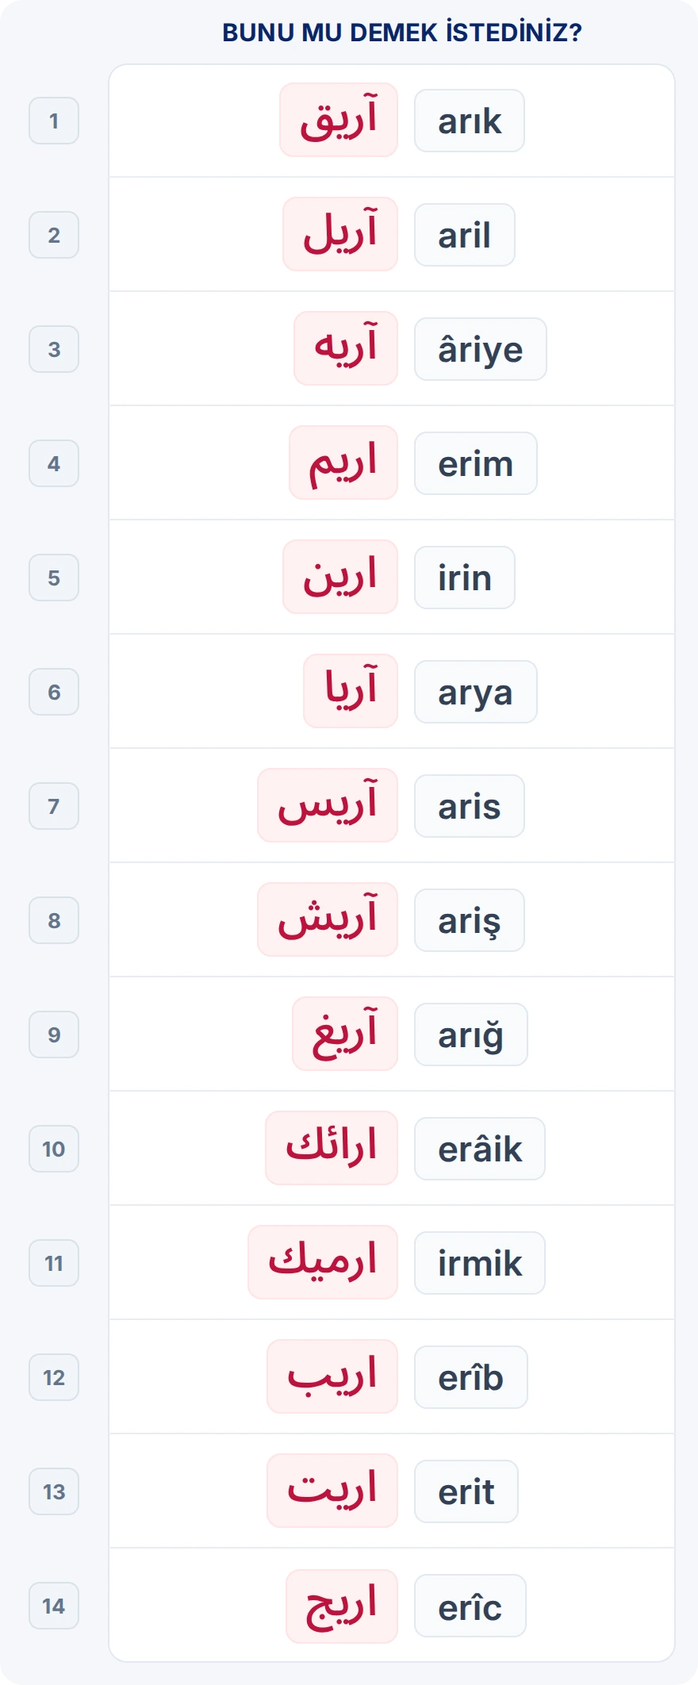
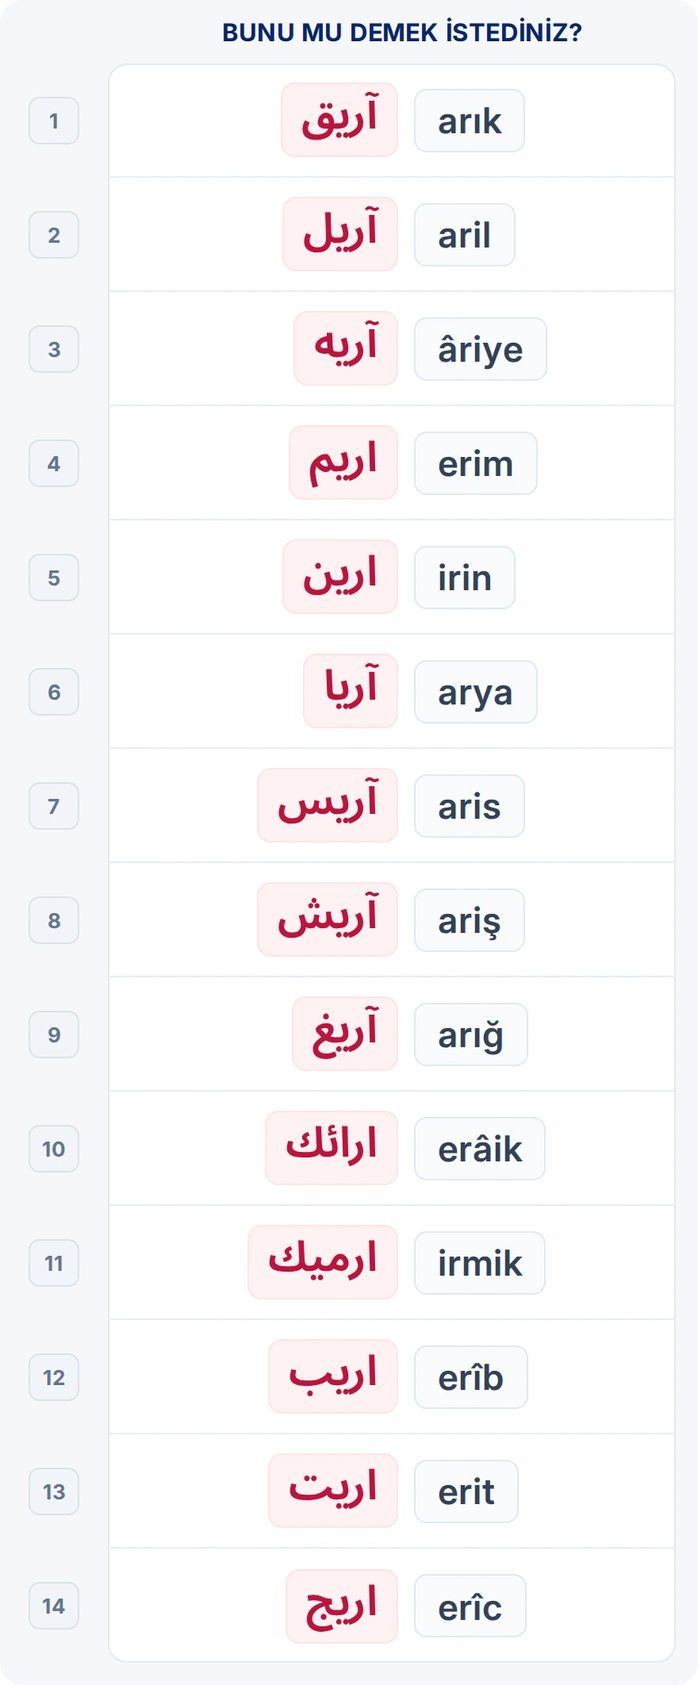
Kilavuz B6: Bunu mu demek istediniz listesinde Arapca yazi tipi sitedekiyle eslestirildi

diff --git a/pages/kullanim-kilavuzu-tr.html b/pages/kullanim-kilavuzu-tr.html
@@ -101,7 +101,7 @@ h2{margin:3.1rem 0 1.05rem;padding-top:.25rem}
   <div class="layout">
       <nav class="toc" aria-label="Bu sayfada"><p class="toc-title">Bu sayfada</p><a href="#ana-sayfa">Ana Sayfa</a><a href="#sonuclar">Arama Sonuçları</a><a href="#sozluk-sayfasi">Sözlük Sayfası</a><a href="#cozucu">Kelime Çözücü</a><a href="#cozucu-sonuc">Kelime Çözücü Sonuçları</a></nav>
       <main class="guide-steps">
-    <section aria-labelledby="ana-sayfa"><h2 id="ana-sayfa">Ana Sayfa</h2><p class="section-intro">LexiQamus iki ayrı arama biçimi sunar. <b>Ara</b> sekmesi okuyabildiğiniz bir kelimeyi doğrudan aramak, <b>Kelime Çözücü</b> ise okuyamadığınız bir kelimeyi elinizdeki ipuçlarından yola çıkarak tespit etmek içindir. İki sekme arasında istediğiniz an geçiş yapabilirsiniz.</p><figure class="shot shot-map" style="--nw:1879;--ar:6.8828"><div class="map"><img src="../assets/kilavuz/a-genel.webp?v=2" width="1879" height="273" alt="Ana sayfanın arama alanı: Kelime Çözücü ve Ara sekmeleri, arama kutusu, Ara düğmesi ve sözlük listesi"><a class="pin pin-sec pin-top" href="#cozucu" style="--x:44.39%;--ty:0.0769" aria-label="B">B</a><a class="pin  pin-top" href="#ara-genel" style="--x:55.56%;--ty:0.0769" aria-label="A1">A1</a><a class="pin pin-bottom" href="#osm-ing" style="--x:6.55%;--ty:0.7289" aria-label="A3">A3</a><a class="pin pin-bottom" href="#iki-taraf" style="--x:16.66%;--ty:0.7289" aria-label="A2">A2</a><a class="pin  pin-bottom" href="#klavye" style="--x:55.51%;--ty:0.7363" aria-label="A3">A3</a><a class="pin  pin-bottom" href="#sozlukler" style="--x:83.18%;--ty:0.7326" aria-label="A4">A4</a></div></figure><article class="block" id="ara-genel"><h3>Ara sekmesi</h3><p>Arama satırı tek bir çubuktan oluşur: solda kelimeyi Latin harfleriyle, sağda Osmanlı harfleriyle yazabileceğiniz alanlar, hemen yanında da hangi sözlüklerde arama yapılacağını belirlediğiniz liste yer alır.</p></article><article class="block" id="iki-taraf"><h3>Arama kutusu: iki taraf, iki alfabe</h3><p>Arama kutusu iki yarıdan oluşur. Sol yarıya kelimeyi <b>Latin harfleriyle</b>, sağ yarıya <b>Osmanlı harfleriyle</b> yazarsınız. İkisini birlikte de kullanabilirsiniz; kelimeyi nasıl okuduğunuzu biliyorsanız Latin tarafına yazmanız yeterlidir.</p><figure class="shot " style="--nw:1686;--ar:11.7902"><img src="../assets/kilavuz/a2-1.webp?v=2" width="1686" height="143" loading="lazy" alt=""></figure></article><article class="block" id="osm-ing"><h3>OSM ve İNG: nerede aranacağı</h3><p>Kutunun başındaki <b>OSM</b> ve <b>İNG</b> düğmeleri, yazdığınızın nerede aranacağını belirler. <b>OSM</b> seçiliyken Osmanlıca kelimeler arasında arama yapılır. <b>İNG</b> seçildiğinde ise arama sözlüklerdeki İngilizce tanımların içinde yapılır; böylece bir İngilizce kelimeyi tanımında geçiren bütün maddeleri görebilirsiniz.</p><figure class="shot shot-narrow" style="--nw:520;--ar:3.6364"><img src="../assets/kilavuz/a3-osm-ing.webp" width="520" height="143" loading="lazy" alt="Arama kutusunun başındaki OSM ve İNG düğmeleri"></figure></article><article class="block" id="klavye"><h3>Osmanlıca yazmak</h3><p>Osmanlıca tarafa tıkladığınızda ekran klavyesi açılır. Harflere tek tek tıklayarak yazabilirsiniz.</p><p>Fakat klavyeyi kullanmak zorunda değilsiniz. Her tuşun üzerinde, o harfe karşılık gelen fiziksel klavye tuşu yazılıdır: <b>A</b> tuşu ا, <b>B</b> tuşu ب, <b>SHF+S</b> ص harfini verir. Yani kelimeyi kendi klavyenizden hızlıca yazabilir, sadece emin olmadığınız harfler için ekrana bakabilirsiniz.</p><figure class="shot" style="--nw:1322;--ar:3.4072"><img src="../assets/kilavuz/a3-1.webp?v=3" width="1322" height="388" loading="lazy" alt="Osmanlıca tarafı seçili arama kutusu ve altında açılan ekran klavyesi"></figure></article><article class="block" id="sozlukler"><h3>Sözlük seçimi</h3><p>Öntanımlı olarak bütün sözlüklerde arama yapılır. Listeyi açıp <b>Tümünü Seç</b> işaretini kaldırdığınızda sözlükleri tek tek seçebilirsiniz.</p><p>Bu, aramayı belirli eserlerle sınırlamak istediğinizde işinize yarar: yalnızca seçtiğiniz sözlüklerden gelen sonuçlar listelenir.</p><figure class="shot shot-narrow" style="--s:0.75;--nw:613;--ar:0.8490"><img src="../assets/kilavuz/a4-1.webp?v=2" width="613" height="722" loading="lazy" alt=""></figure></article></section><section aria-labelledby="sonuclar"><h2 id="sonuclar">Arama Sonuçları</h2><p class="section-intro">Her iki arama biçimi de sizi aynı sonuç listesine götürür. Liste dört sütuna ayrılmıştır ve her satır, bir sözlükte geçen tek bir kaydı gösterir.</p><figure class="shot shot-map" style="--cap:100000px;--nw:1689;--ar:0.7008"><div class="map bands"><img src="../assets/kilavuz/b-ara-sonuclari.webp?v=2" width="1689" height="2410" alt="arı araması: arama kutusu, sonuç başlığı ve Tam Eşleşmeler, Çekimli Biçimler, Türemiş Biçimler, İbareler ve Birleşik Kelimeler, Kısmi Eşleşmeler grupları"><a class="pin pin-right" href="#yazilis-okunus" style="--px:0.7851;--ty:0.1510">·</a><a class="pin pin-right" href="#benzer-okunus" style="--px:0.9728;--ty:0.1884">·</a><a class="pin pin-left" href="#iki-bolge" style="--px:0.0278;--ty:0.3432">·</a><a class="pin pin-top" href="#kategoriler" style="--px:0.3825;--ty:0.2154">·</a><a class="pin pin-right" href="#sozluk-kunye" style="--px:0.9372;--ty:0.2979">·</a></div></figure><article class="block" id="yazilis-okunus"><h3>Yazılışa göre ara</h3><p><b>Yazılışa Göre Ara</b>, aradığınız ifadenin muhtemel yazılış ve okunuşlarını düğmeler halinde sunar. Bir düğmeye tıkladığınızda arama o yazılışa göre yenilenir. Bu yazılış ve okunuşlar bir tahmin değildir; sözlükleri dijitalleştirirken sisteme veri olarak girdiğimiz kayıtlardan gelir. Böylece aynı kelimenin farklı imla ve okunuşlarına tek tıkla geçebilirsiniz.</p><figure class="shot" style="--nw:366;--ar:3.6600"><img src="../assets/kilavuz/b1-yazilis.webp?v=2" width="366" height="100" loading="lazy" alt="arı araması: Yazılışa göre ara düğmeleri (ارى, arı, ârî, eri)"></figure></article><article class="block" id="benzer-okunus"><h3>Benzer Okunuş</h3><p>Osmanlı alfabesinde aynı ya da çok yakın okunan birden fazla harf vardır: <span dir="rtl">ث</span> ile <span dir="rtl">س</span>, <span dir="rtl">ت</span> ile <span dir="rtl">ط</span> gibi. Bir kelimeyi duyduğunuz gibi yazdığınızda, sözlükteki imlası sizinkinden farklı olabilir. <b>Benzer Okunuş</b>, aramanızdaki harflerin yerine ses bakımından benzerlerini de koyarak arar; böylece imlası farklı olduğu için gözden kaçacak sonuçları da listeye ekler. Düğmenin yanındaki sayı, bu genişletmenin kaç sonuç getirdiğini gösterir.</p><figure class="shot" style="--nw:687;--ar:7.0102"><img src="../assets/kilavuz/b2-benzer-okunus.webp" width="687" height="98" loading="lazy" alt="Aramayı genişlet: Tam Eşleşme ve Benzer Okunuş düğmeleri"></figure></article><article class="block" id="kategoriler"><h3>Kelime kategorileri</h3><p>Kategori etiketi, sonucun maddeyle nasıl bir ilişki içinde olduğunu söyler ve satırın solundaki renkli çizgi de aynı ayrımı yapar.</p><p><b>Madde Başı</b>: kelime, sözlükte kendi adına açılmış bir maddenin başlığıdır.</p><p><b>Alt Madde Başı</b>: kelime, bir madde başının altında ayrıca ele alınmış bir alt maddedir.</p><p><b>İlişkili</b>: kelime maddenin başlığı değildir, madde içinde geçmektedir yahut o maddeyle bağlantılıdır.</p><figure class="shot" style="--nw:1129;--ar:2.7403"><img src="../assets/kilavuz/b3-kategoriler.webp" width="1129" height="412" loading="lazy" alt="Kategori örnekleri: Madde Başı (yeşil), Alt Madde Başı (turuncu) ve İlişkili (mavi) satırları"></figure></article><article class="block" id="iki-bolge"><h3>Satırda iki tıklama bölgesi</h3><p>Her satır iki ayrı bölgeye ayrılır ve hangisine tıkladığınız sizi farklı yere götürür. İmleci satırın üzerine getirdiğinizde hangi bölgede olduğunuz renklenerek belli olur.</p><p>Sol bölge, yani sonuç kelimesinin kendisi: <b>Sonuca git</b>. Orijinal sözlük sayfası açılır ve doğrudan kelimenin geçtiği yer karşınıza gelir. Buradan yukarı kaydırarak maddenin başına da çıkabilirsiniz.</p><p>Sağ bölge, yani madde başı ve sözlük bilgisi: <b>Madde başına git</b>. Aynı sayfa açılır, fakat bu kez doğrudan maddenin başından.</p><figure class="shot " style="--nw:1700;--ar:9.6045"><img src="../assets/kilavuz/c2-1.webp" width="1700" height="177" loading="lazy" alt=""></figure><figure class="shot " style="--nw:1700;--ar:9.6045"><img src="../assets/kilavuz/c2-2.webp" width="1700" height="177" loading="lazy" alt=""></figure></article><article class="block" id="sozluk-kunye"><h3>Sözlük ve künye</h3><p>Sütunun sağ ucundaki düğme o kaydın künye bilgilerini açar. Eserin adı, yazarı, yılı, cildi ve sayfası burada toplu olarak yer alır.</p><p>Künye penceresinde atıf üç ayrı biçimde hazır olarak sunulur: APA, Chicago ve Harvard. Kullanacağınız biçimi seçip tek düğmeyle kopyalayabilirsiniz.</p><figure class="shot shot-narrow" style="--s:1;--nw:249;--ar:3.1519"><img src="../assets/kilavuz/b-kunye-hucre.webp" width="249" height="79" loading="lazy" alt="Sözlük sütunu: Kamus-ı Türki, 1899, sayfa 31 ve kopyalama düğmesi"></figure><figure class="shot" style="--s:.5;--nw:1242;--ar:1.0991"><img src="../assets/kilavuz/b-kunye-pencere.webp" width="1242" height="1130" loading="lazy" alt="Künye Bilgileri penceresi: Kamus-ı Türki, Şemseddin Sami, 1899, cilt 1, sayfa 31"></figure></article><article class="block" id="tara"><h3>Benzer Eşleşmeleri Tara</h3><p>Aradığınızı listede bulamadıysanız sayfanın altındaki bu düğmeye basın.</p><p>LexiQamus, girdiğiniz yazılışa harf harf yakın duran kelimeleri tarar ve numaralı bir liste halinde önünüze getirir. Yanlış okunmuş tek bir harf yüzünden gözden kaçan kelime çoğu zaman bu listede çıkar.</p><figure class="shot shot-narrow" style="--s:0.75;--nw:387;--ar:3.7212"><img src="../assets/kilavuz/c7-1.webp?v=2" width="387" height="104" loading="lazy" alt=""></figure><figure class="shot shot-narrow" style="--s:.5;--cap:100000px;--nw:880;--ar:0.4143"><img src="../assets/kilavuz/b-bunu-mu.webp" width="880" height="2124" loading="lazy" alt="Bunu mu demek istediniz? listesi: arı aramasına yakın 14 yazılış ve okunuşları"></figure></article></section><section aria-labelledby="sozluk-sayfasi"><h2 id="sozluk-sayfasi">Sözlük Sayfası</h2><p class="section-intro">Bir sonuca yahut madde başına tıkladığınızda sözlüğün orijinal sayfası bir pencerede açılır. Bu pencere yalnızca taramayı göstermez: o sayfada dijitalleştirilmiş kelimeleri tarama üzerinde işaretler ve her birinin dijital karşılığını gösterir.</p><article class="block" id="dilim-sutun-sayfa"><h3>Dilim, Sütun, Sayfa</h3><p>Pencere ilk açıldığında <b>Dilim</b> görünümü etkindir. Alttaki şerit, aradığınız yerin sözlüğün kaçıncı sayfasında, hangi sütununda ve o sütunun kaçıncı diliminde olduğunu söyler.</p><p><b>Sütun</b>'a tıkladığınızda sütunun tamamı açılır. <b>Sayfa</b>'ya tıkladığınızda ise sayfanın tamamını görürsünüz. Dijitalleştirilmiş kelimeler üç görünümde de işaretli kalır.</p><figure class="shot " style="--nw:1428;--ar:1.8889"><img src="../assets/kilavuz/d1-1.webp" width="1428" height="756" loading="lazy" alt=""></figure><figure class="shot " style="--nw:1432;--ar:1.6947"><img src="../assets/kilavuz/d1-2.webp" width="1432" height="845" loading="lazy" alt=""></figure><figure class="shot " style="--nw:1436;--ar:1.6974"><img src="../assets/kilavuz/d1-3.webp" width="1436" height="846" loading="lazy" alt=""></figure></article><article class="block" id="renkli-kutular"><h3>Renkli kutular</h3><p>Maddede dijitalleştirilmiş olan kelimeler tarama üzerinde kutu içine alınır. Kutuların rengi kelime kategorisine göre değişir; sonuç listesindeki kategori ayrımının aynısı burada da geçerlidir.</p><p>Gri duran kelimeler de dijitalleştirilmiştir. Üzerlerine geldiğinizde renklenir ve dijital karşılıkları görünür.</p><figure class="shot " style="--nw:947;--ar:1.3886"><img src="../assets/kilavuz/d2-1.webp" width="947" height="682" loading="lazy" alt=""></figure></article><article class="block" id="kelime-uzerine"><h3>Kelimenin dijital karşılığı</h3><p>Bir kutunun üzerine geldiğinizde kelimenin Osmanlıca yazılışı ve Latin okunuşu alt alta belirir.</p><p>Kelime bir öbeğin parçasıysa iki katman birden görürsünüz: üstte imlecin bulunduğu kelimenin dijitali, altta öbeğin tamamının dijitali.</p><figure class="shot shot-narrow" style="--nw:222;--ar:0.6491"><img src="../assets/kilavuz/d3-1.webp" width="222" height="342" loading="lazy" alt=""></figure><figure class="shot shot-narrow" style="--nw:357;--ar:1.0142"><img src="../assets/kilavuz/d3-2.webp" width="357" height="352" loading="lazy" alt=""></figure></article><article class="block" id="kelimeye-tikla"><h3>Kelimeye tıklamak</h3><p>Tarama üzerindeki bir kelimeye yahut beliren dijital değerlerin üzerine tıkladığınızda o kelime için yeni bir arama başlar ve yeni sekmede açılır. Böylece okuduğunuz maddeden ayrılmadan yan yollara girebilirsiniz.</p><figure class="shot shot-narrow" style="--nw:357;--ar:1.0142"><img src="../assets/kilavuz/d4-1.webp" width="357" height="352" loading="lazy" alt=""></figure></article><article class="block" id="hata-bildir"><h3>Hata bildirme</h3><p>Dijitalleştirmede bir hata olduğunu düşünüyorsanız kelimenin üzerine gelin ve yanında beliren uyarı işaretine basın.</p><p>Açılan pencerede kelime hazır olarak gelir. Altındaki alana hatayı yahut önerdiğiniz düzeltmeyi yazıp gönderirsiniz.</p><figure class="shot shot-narrow" style="--nw:301;--ar:0.8776"><img src="../assets/kilavuz/d5-1.webp" width="301" height="343" loading="lazy" alt=""></figure><figure class="shot " style="--nw:756;--ar:1.8217"><img src="../assets/kilavuz/d5-2.webp" width="756" height="415" loading="lazy" alt=""></figure></article><article class="block" id="madde-gezinme"><h3>Önceki ve sonraki madde</h3><p>Pencerenin iki yanındaki oklarla maddeler arasında tek tıkla gezinebilirsiniz. Oklar dilim, sütun ve sayfa görünümlerinin hepsinde çalışır.</p><figure class="shot shot-narrow" style="--nw:413;--ar:1.9390"><img src="../assets/kilavuz/d6-1.webp" width="413" height="213" loading="lazy" alt=""></figure></article></section><section aria-labelledby="cozucu"><h2 id="cozucu">Kelime Çözücü</h2><p class="section-intro">El yazması bir metinde okuyamadığınız bir kelimeyle karşılaştığınızda kullanacağınız araç budur. Okuyabildiğiniz harfleri girer, okuyamadıklarınız için işaret bırakırsınız; LexiQamus bu ölçütlere uyan kelimeleri listeler.</p><figure class="shot shot-map" style="--nw:1484;--ar:1.2938"><div class="map"><img src="../assets/kilavuz/d-cozucu-genel.webp" width="1484" height="1147" alt="Kelime Çözücü: harf kutuları ve altında açılan çözücü klavyesi"><a class="pin pin-top" href="#kutular" style="--x:47.98%;--ty:0.0262" aria-label="B1">B1</a><a class="pin pin-bottom" href="#cozucu-klavye" style="--x:50.00%;--ty:0.9738" aria-label="B2">B2</a></div></figure><article class="block" id="kutular"><h3>Kutular</h3><p>Her kutu bir karakteri temsil eder. Boş bırakılan kutu boşluk demektir, dolayısıyla tek kelimeleri olduğu gibi kelime öbeklerini de arayabilirsiniz.</p><p>Kutuların arasındaki <b>+</b> düğmeleriyle araya yeni kutu eklersiniz. Kutuların altındaki zincir işaretleri harflerin bitişik olup olmadığını gösterir; bunu belirttiğinizde sonuçlar daralır.</p></article><article class="block" id="cozucu-klavye"><h3>Çözücü klavyesi</h3><p>Bir kutuya tıkladığınızda harf klavyesi açılır. Buradan hem normal harfleri hem de benzer şekilli harfleri temsil eden özel karakterleri girebilirsiniz.</p><p>Üstteki iki yeşil tuş önemlidir. <b>*</b> okunamayan tek bir harf demektir. <b>∞</b> ise adedi bilinmeyen, bir veya birden fazla okunamayan harf anlamına gelir. Aramanız sonuç vermiyorsa, emin olmadığınız kısma bu işaretleri koyarak aramayı genişletebilirsiniz.</p><p>Bir kutuya birden fazla harf de girebilirsiniz. و, د ve ر gibi birbirine karışan harflerde, ihtimallerin hepsini aynı kutuya koyup hepsini birden aratmış olursunuz.</p></article><article class="block" id="ipucu-dolu"><h3>Doldurulmuş bir örnek</h3><p>Aşağıda okunabilen harflerin girildiği, okunamayan bir harf için <b>*</b> bırakılan ve harfler arası bitişiklik durumunun işaretlendiği bir çözücü satırı görünüyor. <b>Ara</b> düğmesine bastığınızda bu ölçütlere uyan kelimeler listelenir.</p><figure class="shot " style="--s:.68;--nw:669;--ar:5.3095"><img src="../assets/kilavuz/b3-1.webp?v=2" width="669" height="126" loading="lazy" alt=""></figure></article><article class="block" id="cozucu-sonuclar"><h3>Sonuçlar</h3><p><b>Sonuç</b>: aradığınız ölçütlere uyan kelimenin kendisi, Osmanlıca yazılışı ve Latin okunuşuyla birlikte.</p><p><b>Kategori</b>: bu kelimenin bulunduğu sözlük maddesiyle ilişkisi.</p><p><b>Madde Başı</b>: kelimenin geçtiği maddenin başlığı. Sonuç kelimesinin kendisi bir madde başı olabileceği gibi, başka bir maddenin içinde de geçiyor olabilir.</p><p><b>Sözlük</b>: kaydın alındığı eser, basım yılı ve sayfa numarası.</p><figure class="shot " style="--nw:1680;--ar:1.1483"><img src="../assets/kilavuz/c1-1.webp?v=9" width="1680" height="1463" loading="lazy" alt=""></figure></article></section><section aria-labelledby="cozucu-sonuc"><h2 id="cozucu-sonuc">Kelime Çözücü Sonuçları</h2><p class="section-intro">Çözücüyle yapılan aramanın sonuç sayfası, yukarıda anlatılan listeyle aynı şekilde çalışır. Yalnızca iki farkı vardır.</p><article class="block" id="ipuclarina-gore"><h3>İpuçlarına göre</h3><p>Sonuçların üstünde, aramayı hangi ipuçlarıyla yaptığınız kutu dizisi halinde durur. Böylece listeye bakarken hangi harfleri girdiğinizi, nereye <b>*</b> veya <b>∞</b> koyduğunuzu görebilirsiniz.</p><p>Sonuç sayısının yanındaki <b>İpuçlarına göre</b> ifadesi de listenin bu ölçütlere göre oluşturulduğunu belirtir.</p><figure class="shot " style="--nw:1664;--ar:4.9672"><img src="../assets/kilavuz/e1-1.webp?v=2" width="1664" height="335" loading="lazy" alt=""></figure></article><article class="block" id="daha-fazla"><h3>Daha fazla sonuç</h3><p>Çözücü aramaları çok sayıda sonuç verebildiği için liste bir kısmıyla açılır. Sayfanın altındaki düğme kaç sonucun gösterildiğini ve geriye kaç tane kaldığını söyler; bastığınızda listenin devamı yüklenir.</p><figure class="shot shot-narrow" style="--nw:750;--ar:5.0000"><img src="../assets/kilavuz/e2-1.webp" width="750" height="150" loading="lazy" alt=""></figure></article></section>
+    <section aria-labelledby="ana-sayfa"><h2 id="ana-sayfa">Ana Sayfa</h2><p class="section-intro">LexiQamus iki ayrı arama biçimi sunar. <b>Ara</b> sekmesi okuyabildiğiniz bir kelimeyi doğrudan aramak, <b>Kelime Çözücü</b> ise okuyamadığınız bir kelimeyi elinizdeki ipuçlarından yola çıkarak tespit etmek içindir. İki sekme arasında istediğiniz an geçiş yapabilirsiniz.</p><figure class="shot shot-map" style="--nw:1879;--ar:6.8828"><div class="map"><img src="../assets/kilavuz/a-genel.webp?v=2" width="1879" height="273" alt="Ana sayfanın arama alanı: Kelime Çözücü ve Ara sekmeleri, arama kutusu, Ara düğmesi ve sözlük listesi"><a class="pin pin-sec pin-top" href="#cozucu" style="--x:44.39%;--ty:0.0769" aria-label="B">B</a><a class="pin  pin-top" href="#ara-genel" style="--x:55.56%;--ty:0.0769" aria-label="A1">A1</a><a class="pin pin-bottom" href="#osm-ing" style="--x:6.55%;--ty:0.7289" aria-label="A3">A3</a><a class="pin pin-bottom" href="#iki-taraf" style="--x:16.66%;--ty:0.7289" aria-label="A2">A2</a><a class="pin  pin-bottom" href="#klavye" style="--x:55.51%;--ty:0.7363" aria-label="A3">A3</a><a class="pin  pin-bottom" href="#sozlukler" style="--x:83.18%;--ty:0.7326" aria-label="A4">A4</a></div></figure><article class="block" id="ara-genel"><h3>Ara sekmesi</h3><p>Arama satırı tek bir çubuktan oluşur: solda kelimeyi Latin harfleriyle, sağda Osmanlı harfleriyle yazabileceğiniz alanlar, hemen yanında da hangi sözlüklerde arama yapılacağını belirlediğiniz liste yer alır.</p></article><article class="block" id="iki-taraf"><h3>Arama kutusu: iki taraf, iki alfabe</h3><p>Arama kutusu iki yarıdan oluşur. Sol yarıya kelimeyi <b>Latin harfleriyle</b>, sağ yarıya <b>Osmanlı harfleriyle</b> yazarsınız. İkisini birlikte de kullanabilirsiniz; kelimeyi nasıl okuduğunuzu biliyorsanız Latin tarafına yazmanız yeterlidir.</p><figure class="shot " style="--nw:1686;--ar:11.7902"><img src="../assets/kilavuz/a2-1.webp?v=2" width="1686" height="143" loading="lazy" alt=""></figure></article><article class="block" id="osm-ing"><h3>OSM ve İNG: nerede aranacağı</h3><p>Kutunun başındaki <b>OSM</b> ve <b>İNG</b> düğmeleri, yazdığınızın nerede aranacağını belirler. <b>OSM</b> seçiliyken Osmanlıca kelimeler arasında arama yapılır. <b>İNG</b> seçildiğinde ise arama sözlüklerdeki İngilizce tanımların içinde yapılır; böylece bir İngilizce kelimeyi tanımında geçiren bütün maddeleri görebilirsiniz.</p><figure class="shot shot-narrow" style="--nw:520;--ar:3.6364"><img src="../assets/kilavuz/a3-osm-ing.webp" width="520" height="143" loading="lazy" alt="Arama kutusunun başındaki OSM ve İNG düğmeleri"></figure></article><article class="block" id="klavye"><h3>Osmanlıca yazmak</h3><p>Osmanlıca tarafa tıkladığınızda ekran klavyesi açılır. Harflere tek tek tıklayarak yazabilirsiniz.</p><p>Fakat klavyeyi kullanmak zorunda değilsiniz. Her tuşun üzerinde, o harfe karşılık gelen fiziksel klavye tuşu yazılıdır: <b>A</b> tuşu ا, <b>B</b> tuşu ب, <b>SHF+S</b> ص harfini verir. Yani kelimeyi kendi klavyenizden hızlıca yazabilir, sadece emin olmadığınız harfler için ekrana bakabilirsiniz.</p><figure class="shot" style="--nw:1322;--ar:3.4072"><img src="../assets/kilavuz/a3-1.webp?v=3" width="1322" height="388" loading="lazy" alt="Osmanlıca tarafı seçili arama kutusu ve altında açılan ekran klavyesi"></figure></article><article class="block" id="sozlukler"><h3>Sözlük seçimi</h3><p>Öntanımlı olarak bütün sözlüklerde arama yapılır. Listeyi açıp <b>Tümünü Seç</b> işaretini kaldırdığınızda sözlükleri tek tek seçebilirsiniz.</p><p>Bu, aramayı belirli eserlerle sınırlamak istediğinizde işinize yarar: yalnızca seçtiğiniz sözlüklerden gelen sonuçlar listelenir.</p><figure class="shot shot-narrow" style="--s:0.75;--nw:613;--ar:0.8490"><img src="../assets/kilavuz/a4-1.webp?v=2" width="613" height="722" loading="lazy" alt=""></figure></article></section><section aria-labelledby="sonuclar"><h2 id="sonuclar">Arama Sonuçları</h2><p class="section-intro">Her iki arama biçimi de sizi aynı sonuç listesine götürür. Liste dört sütuna ayrılmıştır ve her satır, bir sözlükte geçen tek bir kaydı gösterir.</p><figure class="shot shot-map" style="--cap:100000px;--nw:1689;--ar:0.7008"><div class="map bands"><img src="../assets/kilavuz/b-ara-sonuclari.webp?v=2" width="1689" height="2410" alt="arı araması: arama kutusu, sonuç başlığı ve Tam Eşleşmeler, Çekimli Biçimler, Türemiş Biçimler, İbareler ve Birleşik Kelimeler, Kısmi Eşleşmeler grupları"><a class="pin pin-right" href="#yazilis-okunus" style="--px:0.7851;--ty:0.1510">·</a><a class="pin pin-right" href="#benzer-okunus" style="--px:0.9728;--ty:0.1884">·</a><a class="pin pin-left" href="#iki-bolge" style="--px:0.0278;--ty:0.3432">·</a><a class="pin pin-top" href="#kategoriler" style="--px:0.3825;--ty:0.2154">·</a><a class="pin pin-right" href="#sozluk-kunye" style="--px:0.9372;--ty:0.2979">·</a></div></figure><article class="block" id="yazilis-okunus"><h3>Yazılışa göre ara</h3><p><b>Yazılışa Göre Ara</b>, aradığınız ifadenin muhtemel yazılış ve okunuşlarını düğmeler halinde sunar. Bir düğmeye tıkladığınızda arama o yazılışa göre yenilenir. Bu yazılış ve okunuşlar bir tahmin değildir; sözlükleri dijitalleştirirken sisteme veri olarak girdiğimiz kayıtlardan gelir. Böylece aynı kelimenin farklı imla ve okunuşlarına tek tıkla geçebilirsiniz.</p><figure class="shot" style="--nw:366;--ar:3.6600"><img src="../assets/kilavuz/b1-yazilis.webp?v=2" width="366" height="100" loading="lazy" alt="arı araması: Yazılışa göre ara düğmeleri (ارى, arı, ârî, eri)"></figure></article><article class="block" id="benzer-okunus"><h3>Benzer Okunuş</h3><p>Osmanlı alfabesinde aynı ya da çok yakın okunan birden fazla harf vardır: <span dir="rtl">ث</span> ile <span dir="rtl">س</span>, <span dir="rtl">ت</span> ile <span dir="rtl">ط</span> gibi. Bir kelimeyi duyduğunuz gibi yazdığınızda, sözlükteki imlası sizinkinden farklı olabilir. <b>Benzer Okunuş</b>, aramanızdaki harflerin yerine ses bakımından benzerlerini de koyarak arar; böylece imlası farklı olduğu için gözden kaçacak sonuçları da listeye ekler. Düğmenin yanındaki sayı, bu genişletmenin kaç sonuç getirdiğini gösterir.</p><figure class="shot" style="--nw:687;--ar:7.0102"><img src="../assets/kilavuz/b2-benzer-okunus.webp" width="687" height="98" loading="lazy" alt="Aramayı genişlet: Tam Eşleşme ve Benzer Okunuş düğmeleri"></figure></article><article class="block" id="kategoriler"><h3>Kelime kategorileri</h3><p>Kategori etiketi, sonucun maddeyle nasıl bir ilişki içinde olduğunu söyler ve satırın solundaki renkli çizgi de aynı ayrımı yapar.</p><p><b>Madde Başı</b>: kelime, sözlükte kendi adına açılmış bir maddenin başlığıdır.</p><p><b>Alt Madde Başı</b>: kelime, bir madde başının altında ayrıca ele alınmış bir alt maddedir.</p><p><b>İlişkili</b>: kelime maddenin başlığı değildir, madde içinde geçmektedir yahut o maddeyle bağlantılıdır.</p><figure class="shot" style="--nw:1129;--ar:2.7403"><img src="../assets/kilavuz/b3-kategoriler.webp" width="1129" height="412" loading="lazy" alt="Kategori örnekleri: Madde Başı (yeşil), Alt Madde Başı (turuncu) ve İlişkili (mavi) satırları"></figure></article><article class="block" id="iki-bolge"><h3>Satırda iki tıklama bölgesi</h3><p>Her satır iki ayrı bölgeye ayrılır ve hangisine tıkladığınız sizi farklı yere götürür. İmleci satırın üzerine getirdiğinizde hangi bölgede olduğunuz renklenerek belli olur.</p><p>Sol bölge, yani sonuç kelimesinin kendisi: <b>Sonuca git</b>. Orijinal sözlük sayfası açılır ve doğrudan kelimenin geçtiği yer karşınıza gelir. Buradan yukarı kaydırarak maddenin başına da çıkabilirsiniz.</p><p>Sağ bölge, yani madde başı ve sözlük bilgisi: <b>Madde başına git</b>. Aynı sayfa açılır, fakat bu kez doğrudan maddenin başından.</p><figure class="shot " style="--nw:1700;--ar:9.6045"><img src="../assets/kilavuz/c2-1.webp" width="1700" height="177" loading="lazy" alt=""></figure><figure class="shot " style="--nw:1700;--ar:9.6045"><img src="../assets/kilavuz/c2-2.webp" width="1700" height="177" loading="lazy" alt=""></figure></article><article class="block" id="sozluk-kunye"><h3>Sözlük ve künye</h3><p>Sütunun sağ ucundaki düğme o kaydın künye bilgilerini açar. Eserin adı, yazarı, yılı, cildi ve sayfası burada toplu olarak yer alır.</p><p>Künye penceresinde atıf üç ayrı biçimde hazır olarak sunulur: APA, Chicago ve Harvard. Kullanacağınız biçimi seçip tek düğmeyle kopyalayabilirsiniz.</p><figure class="shot shot-narrow" style="--s:1;--nw:249;--ar:3.1519"><img src="../assets/kilavuz/b-kunye-hucre.webp" width="249" height="79" loading="lazy" alt="Sözlük sütunu: Kamus-ı Türki, 1899, sayfa 31 ve kopyalama düğmesi"></figure><figure class="shot" style="--s:.5;--nw:1242;--ar:1.0991"><img src="../assets/kilavuz/b-kunye-pencere.webp" width="1242" height="1130" loading="lazy" alt="Künye Bilgileri penceresi: Kamus-ı Türki, Şemseddin Sami, 1899, cilt 1, sayfa 31"></figure></article><article class="block" id="tara"><h3>Benzer Eşleşmeleri Tara</h3><p>Aradığınızı listede bulamadıysanız sayfanın altındaki bu düğmeye basın.</p><p>LexiQamus, girdiğiniz yazılışa harf harf yakın duran kelimeleri tarar ve numaralı bir liste halinde önünüze getirir. Yanlış okunmuş tek bir harf yüzünden gözden kaçan kelime çoğu zaman bu listede çıkar.</p><figure class="shot shot-narrow" style="--s:0.75;--nw:387;--ar:3.7212"><img src="../assets/kilavuz/c7-1.webp?v=2" width="387" height="104" loading="lazy" alt=""></figure><figure class="shot shot-narrow" style="--s:.5;--cap:100000px;--nw:880;--ar:0.4143"><img src="../assets/kilavuz/b-bunu-mu.webp?v=2" width="880" height="2124" loading="lazy" alt="Bunu mu demek istediniz? listesi: arı aramasına yakın 14 yazılış ve okunuşları"></figure></article></section><section aria-labelledby="sozluk-sayfasi"><h2 id="sozluk-sayfasi">Sözlük Sayfası</h2><p class="section-intro">Bir sonuca yahut madde başına tıkladığınızda sözlüğün orijinal sayfası bir pencerede açılır. Bu pencere yalnızca taramayı göstermez: o sayfada dijitalleştirilmiş kelimeleri tarama üzerinde işaretler ve her birinin dijital karşılığını gösterir.</p><article class="block" id="dilim-sutun-sayfa"><h3>Dilim, Sütun, Sayfa</h3><p>Pencere ilk açıldığında <b>Dilim</b> görünümü etkindir. Alttaki şerit, aradığınız yerin sözlüğün kaçıncı sayfasında, hangi sütununda ve o sütunun kaçıncı diliminde olduğunu söyler.</p><p><b>Sütun</b>'a tıkladığınızda sütunun tamamı açılır. <b>Sayfa</b>'ya tıkladığınızda ise sayfanın tamamını görürsünüz. Dijitalleştirilmiş kelimeler üç görünümde de işaretli kalır.</p><figure class="shot " style="--nw:1428;--ar:1.8889"><img src="../assets/kilavuz/d1-1.webp" width="1428" height="756" loading="lazy" alt=""></figure><figure class="shot " style="--nw:1432;--ar:1.6947"><img src="../assets/kilavuz/d1-2.webp" width="1432" height="845" loading="lazy" alt=""></figure><figure class="shot " style="--nw:1436;--ar:1.6974"><img src="../assets/kilavuz/d1-3.webp" width="1436" height="846" loading="lazy" alt=""></figure></article><article class="block" id="renkli-kutular"><h3>Renkli kutular</h3><p>Maddede dijitalleştirilmiş olan kelimeler tarama üzerinde kutu içine alınır. Kutuların rengi kelime kategorisine göre değişir; sonuç listesindeki kategori ayrımının aynısı burada da geçerlidir.</p><p>Gri duran kelimeler de dijitalleştirilmiştir. Üzerlerine geldiğinizde renklenir ve dijital karşılıkları görünür.</p><figure class="shot " style="--nw:947;--ar:1.3886"><img src="../assets/kilavuz/d2-1.webp" width="947" height="682" loading="lazy" alt=""></figure></article><article class="block" id="kelime-uzerine"><h3>Kelimenin dijital karşılığı</h3><p>Bir kutunun üzerine geldiğinizde kelimenin Osmanlıca yazılışı ve Latin okunuşu alt alta belirir.</p><p>Kelime bir öbeğin parçasıysa iki katman birden görürsünüz: üstte imlecin bulunduğu kelimenin dijitali, altta öbeğin tamamının dijitali.</p><figure class="shot shot-narrow" style="--nw:222;--ar:0.6491"><img src="../assets/kilavuz/d3-1.webp" width="222" height="342" loading="lazy" alt=""></figure><figure class="shot shot-narrow" style="--nw:357;--ar:1.0142"><img src="../assets/kilavuz/d3-2.webp" width="357" height="352" loading="lazy" alt=""></figure></article><article class="block" id="kelimeye-tikla"><h3>Kelimeye tıklamak</h3><p>Tarama üzerindeki bir kelimeye yahut beliren dijital değerlerin üzerine tıkladığınızda o kelime için yeni bir arama başlar ve yeni sekmede açılır. Böylece okuduğunuz maddeden ayrılmadan yan yollara girebilirsiniz.</p><figure class="shot shot-narrow" style="--nw:357;--ar:1.0142"><img src="../assets/kilavuz/d4-1.webp" width="357" height="352" loading="lazy" alt=""></figure></article><article class="block" id="hata-bildir"><h3>Hata bildirme</h3><p>Dijitalleştirmede bir hata olduğunu düşünüyorsanız kelimenin üzerine gelin ve yanında beliren uyarı işaretine basın.</p><p>Açılan pencerede kelime hazır olarak gelir. Altındaki alana hatayı yahut önerdiğiniz düzeltmeyi yazıp gönderirsiniz.</p><figure class="shot shot-narrow" style="--nw:301;--ar:0.8776"><img src="../assets/kilavuz/d5-1.webp" width="301" height="343" loading="lazy" alt=""></figure><figure class="shot " style="--nw:756;--ar:1.8217"><img src="../assets/kilavuz/d5-2.webp" width="756" height="415" loading="lazy" alt=""></figure></article><article class="block" id="madde-gezinme"><h3>Önceki ve sonraki madde</h3><p>Pencerenin iki yanındaki oklarla maddeler arasında tek tıkla gezinebilirsiniz. Oklar dilim, sütun ve sayfa görünümlerinin hepsinde çalışır.</p><figure class="shot shot-narrow" style="--nw:413;--ar:1.9390"><img src="../assets/kilavuz/d6-1.webp" width="413" height="213" loading="lazy" alt=""></figure></article></section><section aria-labelledby="cozucu"><h2 id="cozucu">Kelime Çözücü</h2><p class="section-intro">El yazması bir metinde okuyamadığınız bir kelimeyle karşılaştığınızda kullanacağınız araç budur. Okuyabildiğiniz harfleri girer, okuyamadıklarınız için işaret bırakırsınız; LexiQamus bu ölçütlere uyan kelimeleri listeler.</p><figure class="shot shot-map" style="--nw:1484;--ar:1.2938"><div class="map"><img src="../assets/kilavuz/d-cozucu-genel.webp" width="1484" height="1147" alt="Kelime Çözücü: harf kutuları ve altında açılan çözücü klavyesi"><a class="pin pin-top" href="#kutular" style="--x:47.98%;--ty:0.0262" aria-label="B1">B1</a><a class="pin pin-bottom" href="#cozucu-klavye" style="--x:50.00%;--ty:0.9738" aria-label="B2">B2</a></div></figure><article class="block" id="kutular"><h3>Kutular</h3><p>Her kutu bir karakteri temsil eder. Boş bırakılan kutu boşluk demektir, dolayısıyla tek kelimeleri olduğu gibi kelime öbeklerini de arayabilirsiniz.</p><p>Kutuların arasındaki <b>+</b> düğmeleriyle araya yeni kutu eklersiniz. Kutuların altındaki zincir işaretleri harflerin bitişik olup olmadığını gösterir; bunu belirttiğinizde sonuçlar daralır.</p></article><article class="block" id="cozucu-klavye"><h3>Çözücü klavyesi</h3><p>Bir kutuya tıkladığınızda harf klavyesi açılır. Buradan hem normal harfleri hem de benzer şekilli harfleri temsil eden özel karakterleri girebilirsiniz.</p><p>Üstteki iki yeşil tuş önemlidir. <b>*</b> okunamayan tek bir harf demektir. <b>∞</b> ise adedi bilinmeyen, bir veya birden fazla okunamayan harf anlamına gelir. Aramanız sonuç vermiyorsa, emin olmadığınız kısma bu işaretleri koyarak aramayı genişletebilirsiniz.</p><p>Bir kutuya birden fazla harf de girebilirsiniz. و, د ve ر gibi birbirine karışan harflerde, ihtimallerin hepsini aynı kutuya koyup hepsini birden aratmış olursunuz.</p></article><article class="block" id="ipucu-dolu"><h3>Doldurulmuş bir örnek</h3><p>Aşağıda okunabilen harflerin girildiği, okunamayan bir harf için <b>*</b> bırakılan ve harfler arası bitişiklik durumunun işaretlendiği bir çözücü satırı görünüyor. <b>Ara</b> düğmesine bastığınızda bu ölçütlere uyan kelimeler listelenir.</p><figure class="shot " style="--s:.68;--nw:669;--ar:5.3095"><img src="../assets/kilavuz/b3-1.webp?v=2" width="669" height="126" loading="lazy" alt=""></figure></article><article class="block" id="cozucu-sonuclar"><h3>Sonuçlar</h3><p><b>Sonuç</b>: aradığınız ölçütlere uyan kelimenin kendisi, Osmanlıca yazılışı ve Latin okunuşuyla birlikte.</p><p><b>Kategori</b>: bu kelimenin bulunduğu sözlük maddesiyle ilişkisi.</p><p><b>Madde Başı</b>: kelimenin geçtiği maddenin başlığı. Sonuç kelimesinin kendisi bir madde başı olabileceği gibi, başka bir maddenin içinde de geçiyor olabilir.</p><p><b>Sözlük</b>: kaydın alındığı eser, basım yılı ve sayfa numarası.</p><figure class="shot " style="--nw:1680;--ar:1.1483"><img src="../assets/kilavuz/c1-1.webp?v=9" width="1680" height="1463" loading="lazy" alt=""></figure></article></section><section aria-labelledby="cozucu-sonuc"><h2 id="cozucu-sonuc">Kelime Çözücü Sonuçları</h2><p class="section-intro">Çözücüyle yapılan aramanın sonuç sayfası, yukarıda anlatılan listeyle aynı şekilde çalışır. Yalnızca iki farkı vardır.</p><article class="block" id="ipuclarina-gore"><h3>İpuçlarına göre</h3><p>Sonuçların üstünde, aramayı hangi ipuçlarıyla yaptığınız kutu dizisi halinde durur. Böylece listeye bakarken hangi harfleri girdiğinizi, nereye <b>*</b> veya <b>∞</b> koyduğunuzu görebilirsiniz.</p><p>Sonuç sayısının yanındaki <b>İpuçlarına göre</b> ifadesi de listenin bu ölçütlere göre oluşturulduğunu belirtir.</p><figure class="shot " style="--nw:1664;--ar:4.9672"><img src="../assets/kilavuz/e1-1.webp?v=2" width="1664" height="335" loading="lazy" alt=""></figure></article><article class="block" id="daha-fazla"><h3>Daha fazla sonuç</h3><p>Çözücü aramaları çok sayıda sonuç verebildiği için liste bir kısmıyla açılır. Sayfanın altındaki düğme kaç sonucun gösterildiğini ve geriye kaç tane kaldığını söyler; bastığınızda listenin devamı yüklenir.</p><figure class="shot shot-narrow" style="--nw:750;--ar:5.0000"><img src="../assets/kilavuz/e2-1.webp" width="750" height="150" loading="lazy" alt=""></figure></article></section>
       </main>
   </div>
 </div>
